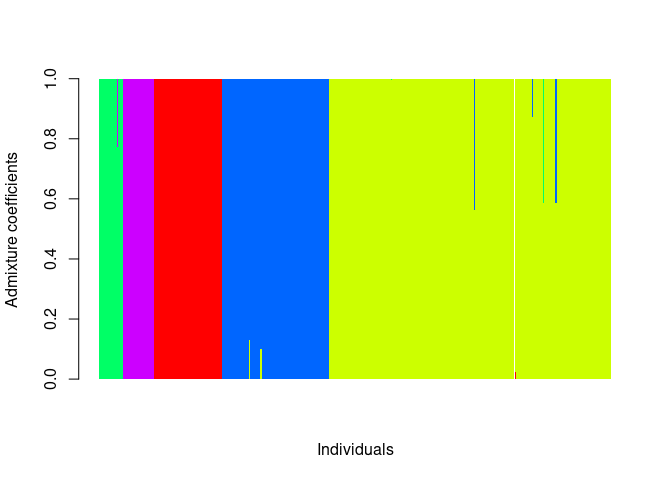
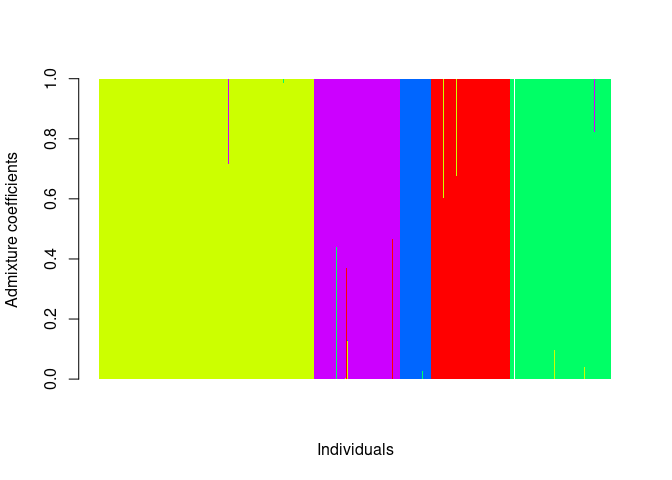
Small update, with better notes

diff --git a/FORGENIUS-pipeline.md b/FORGENIUS-pipeline.md
@@ -45,7 +45,7 @@ Read data, filtering and convert to different formats
 # keep only random SNPs in VCF file using a bed file to filter in vcftools
 # system2("functions/extract_random.sh") # change input and output file names in functions/extract_random.sh
 
-# define file name
+# define file name for input and output
 species_name = "Aalba" #change species name if needed
 suffix = "_20SNPs" #change suffix if needed
 
@@ -79,7 +79,7 @@ pop(data_genind) <- substr(indNames(data_genind), 1,8) #takes pop name from the 
 # read data from genotype file (e.g., from Axiom chips) into genind format
 # data_file <- paste("data/", species_name, suffix, ".txt", sep="")
 # data <- read.table(data_file, header=T)
-# data[1:10,1:10] %>% kable_mydf(boldfirstcolumn = F, font_size = 11) # visualization
+# data[1:10,1:10] %>% kable_mydf(boldfirstcolumn = F, font_size = 11) # use for visualization of input data but careful as it may give an error when rendering!
 # data_genind <- df2genind(X = data[, -(1:2)], sep="/", pop = data[, 2], ind.names = data[, 1], NA.char ="NA") #change column numbers, separator or missing data string if needed
 
 # Remove loci with too much missing data from genind object
@@ -230,29 +230,29 @@ barchart (data_snmf, best_K, best_run, sort.by.Q = T, col = rainbow(best_K), bor
 ![](FORGENIUS-pipeline_files/figure-gfm/Estimate%20admixture%20coefficients-2.png)<!-- -->
 
     ## $order
-    ##   [1]  27  33  59  64  68  76  77 181 191 210 243 270 271 282 285 287 300 392
-    ##  [19] 399  14  16  79  83 143 206 208 211 212 269 273 274 275 278 279 281 288
-    ##  [37] 305 318 320 338 350 355 357 381   4   5  10  13  22  28  40  46  47  52
-    ##  [55]  61  71  73  86  99 100 101 102 103 105 122 132 167 170 172 174 176 182
-    ##  [73] 187 192 193 207 209 213 229 230 280 291 292 296 307 319 331 340 363 366
-    ##  [91] 370 371 372 373 382 384 401 404 412  24  30  32  34  54  60  62  63 114
-    ## [109] 119 130 136 138 142 154 164 165 180 188 189 195 196 197 198 202 214 240
-    ## [127] 241 249 251 252 254 255 257 258 260 263 264 265 266 286 293 301 302 310
-    ## [145] 311 313 315 316 322 323 324 325 326 327 329 330 332 336 341 342 344 348
-    ## [163] 351 354 359 360 364 369 374 376 377 380 385 387 391 394 396 397 400 403
-    ## [181] 405 406 410 411 413   1   2   3   6   7   8   9  11  12  15  17  18  19
-    ## [199]  20  21  23  25  26  29  31  35  36  37  38  39  41  42  43  44  45  48
-    ## [217]  49  50  51  53  55  56  57  58  65  66  67  69  70  72  74  75  78  80
-    ## [235]  81  82  84  85  87  88  89  90  91  92  93  94  95  96  97  98 104 106
-    ## [253] 107 108 109 110 111 112 113 115 116 117 118 120 121 123 124 125 126 127
-    ## [271] 128 129 131 133 134 135 137 139 140 141 144 145 146 147 148 149 150 151
-    ## [289] 152 153 155 156 157 158 159 160 161 162 163 166 168 169 171 173 175 177
-    ## [307] 178 179 183 184 185 186 190 194 199 200 201 203 204 205 215 216 217 218
-    ## [325] 219 220 221 222 223 224 225 226 227 228 231 232 233 234 235 236 237 238
-    ## [343] 239 242 244 245 246 247 248 250 253 256 259 261 262 267 268 272 276 277
-    ## [361] 283 284 289 290 294 295 297 298 299 303 304 306 308 309 312 314 317 321
-    ## [379] 328 333 334 335 337 339 343 345 346 347 349 352 353 356 358 361 362 365
-    ## [397] 367 368 375 378 379 383 386 388 389 390 393 395 398 402 407 408 409
+    ##   [1]   1   2   3   6   7   8   9  12  15  17  18  20  21  24  25  26  29  31
+    ##  [19]  35  36  39  41  42  43  44  45  48  49  50  51  53  55  57  58  66  67
+    ##  [37]  75  77  78  81  85  87  89  90  91  92  93  94  95  96  97  98 104 106
+    ##  [55] 107 108 109 110 111 112 113 115 116 117 118 120 121 123 124 125 126 127
+    ##  [73] 128 129 131 133 134 135 137 140 141 144 145 146 147 148 149 150 151 152
+    ##  [91] 153 155 156 157 158 159 160 161 162 163 166 168 169 173 175 177 179 183
+    ## [109] 184 185 186 197 199 201 203 204 205 215 216 217 219 220 221 222 223 227
+    ## [127] 228 231 232 233 236 237 239 244 245 247 253 262 267 268 272 277 278 283
+    ## [145] 284 295 298 299 304 306 312 314 321 333 335 337 347 353 356 358 361 362
+    ## [163] 368 375 379 383 388 389 390 393 395 402 407  11  19  23  37  38  56  59
+    ## [181]  65  69  70  72  74  80  82  84  88 139 171 178 190 194 200 210 224 225
+    ## [199] 226 229 234 235 238 242 243 246 248 250 254 256 259 261 270 276 282 285
+    ## [217] 289 290 294 297 300 303 308 309 317 325 328 334 339 343 345 346 349 352
+    ## [235] 365 367 372 378 386 392 398 408 409  14  16  79  83 143 180 206 208 211
+    ## [253] 212 269 273 274 275 279 288 305 315 318 320 338 350 355 370 381   4   5
+    ## [271]  10  13  22  27  28  33  40  46  47  52  61  64  68  71  73  76  86  99
+    ## [289] 100 101 102 103 105 122 132 167 170 172 174 176 181 182 187 191 192 193
+    ## [307] 207 209 213 218 230 271 280 281 287 291 292 296 307 319 331 340 363 366
+    ## [325] 371 373 382 384 401 404 412  30  32  34  54  60  62  63 114 119 130 136
+    ## [343] 138 142 154 164 165 188 189 195 196 198 202 214 240 241 249 251 252 255
+    ## [361] 257 258 260 263 264 265 266 286 293 301 302 310 311 313 316 322 323 324
+    ## [379] 326 327 329 330 332 336 341 342 344 348 351 354 357 359 360 364 369 374
+    ## [397] 376 377 380 385 387 391 394 396 397 399 400 403 405 406 410 411 413
 
 ``` r
 # estimate ancestry coefficients by pop
